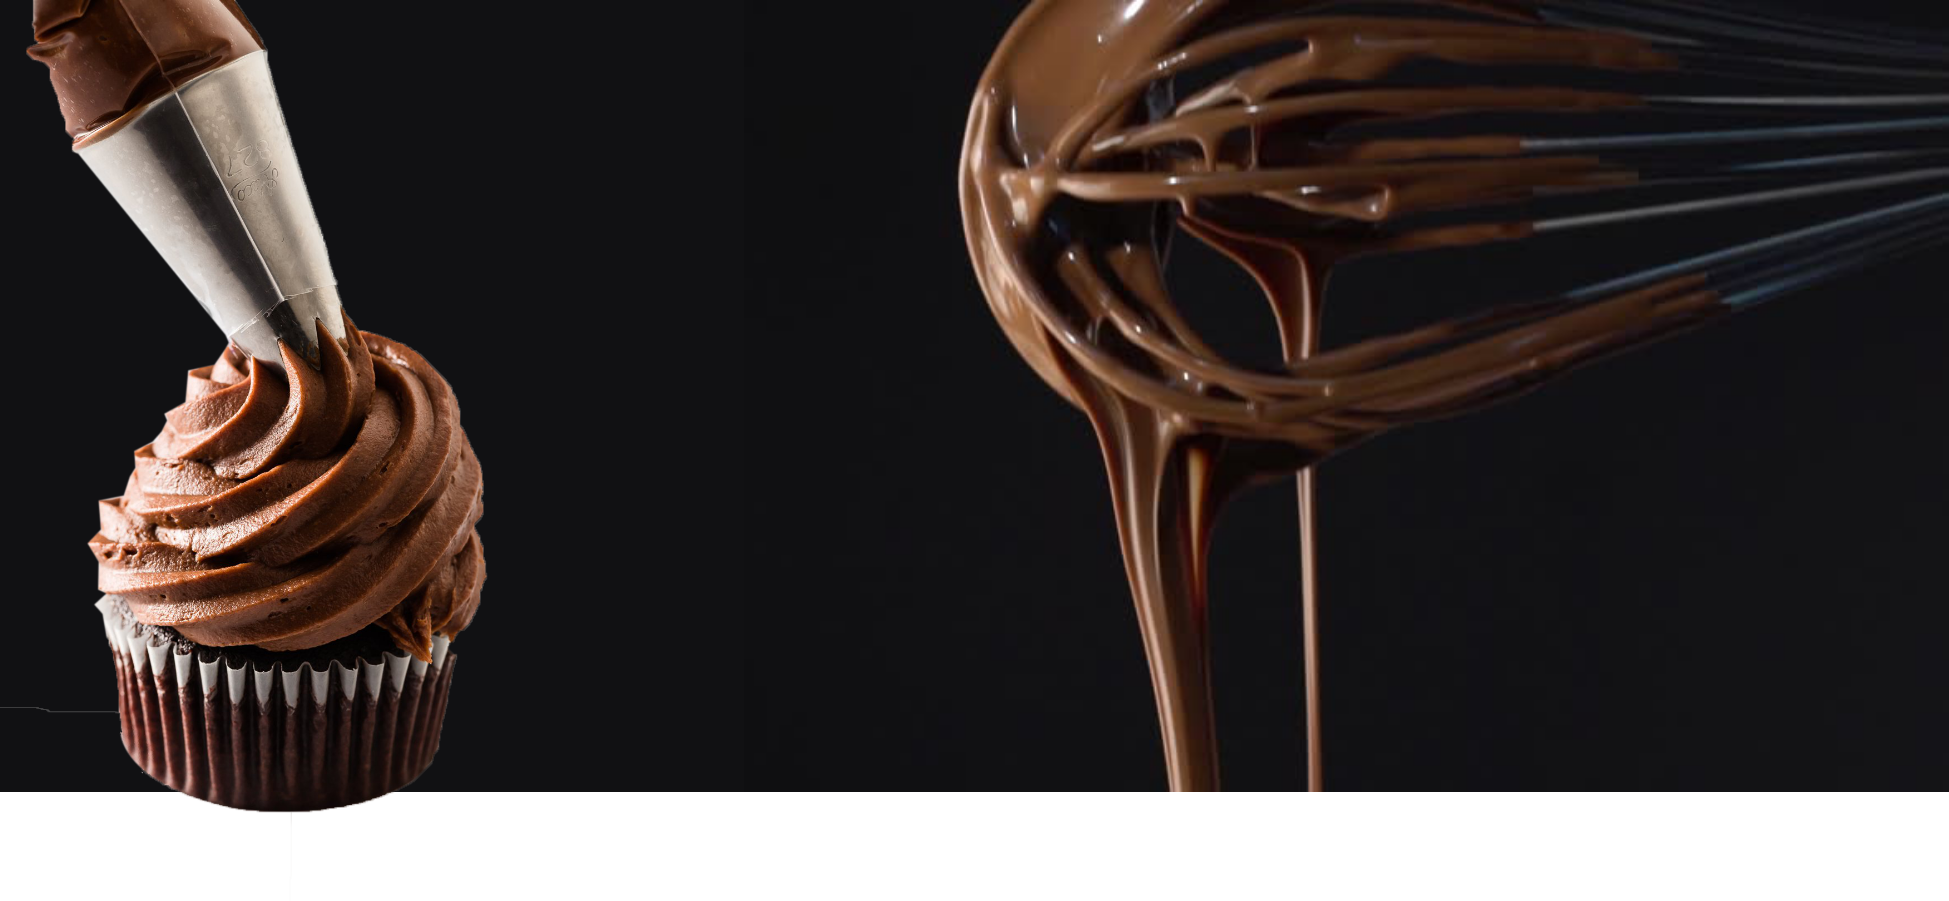
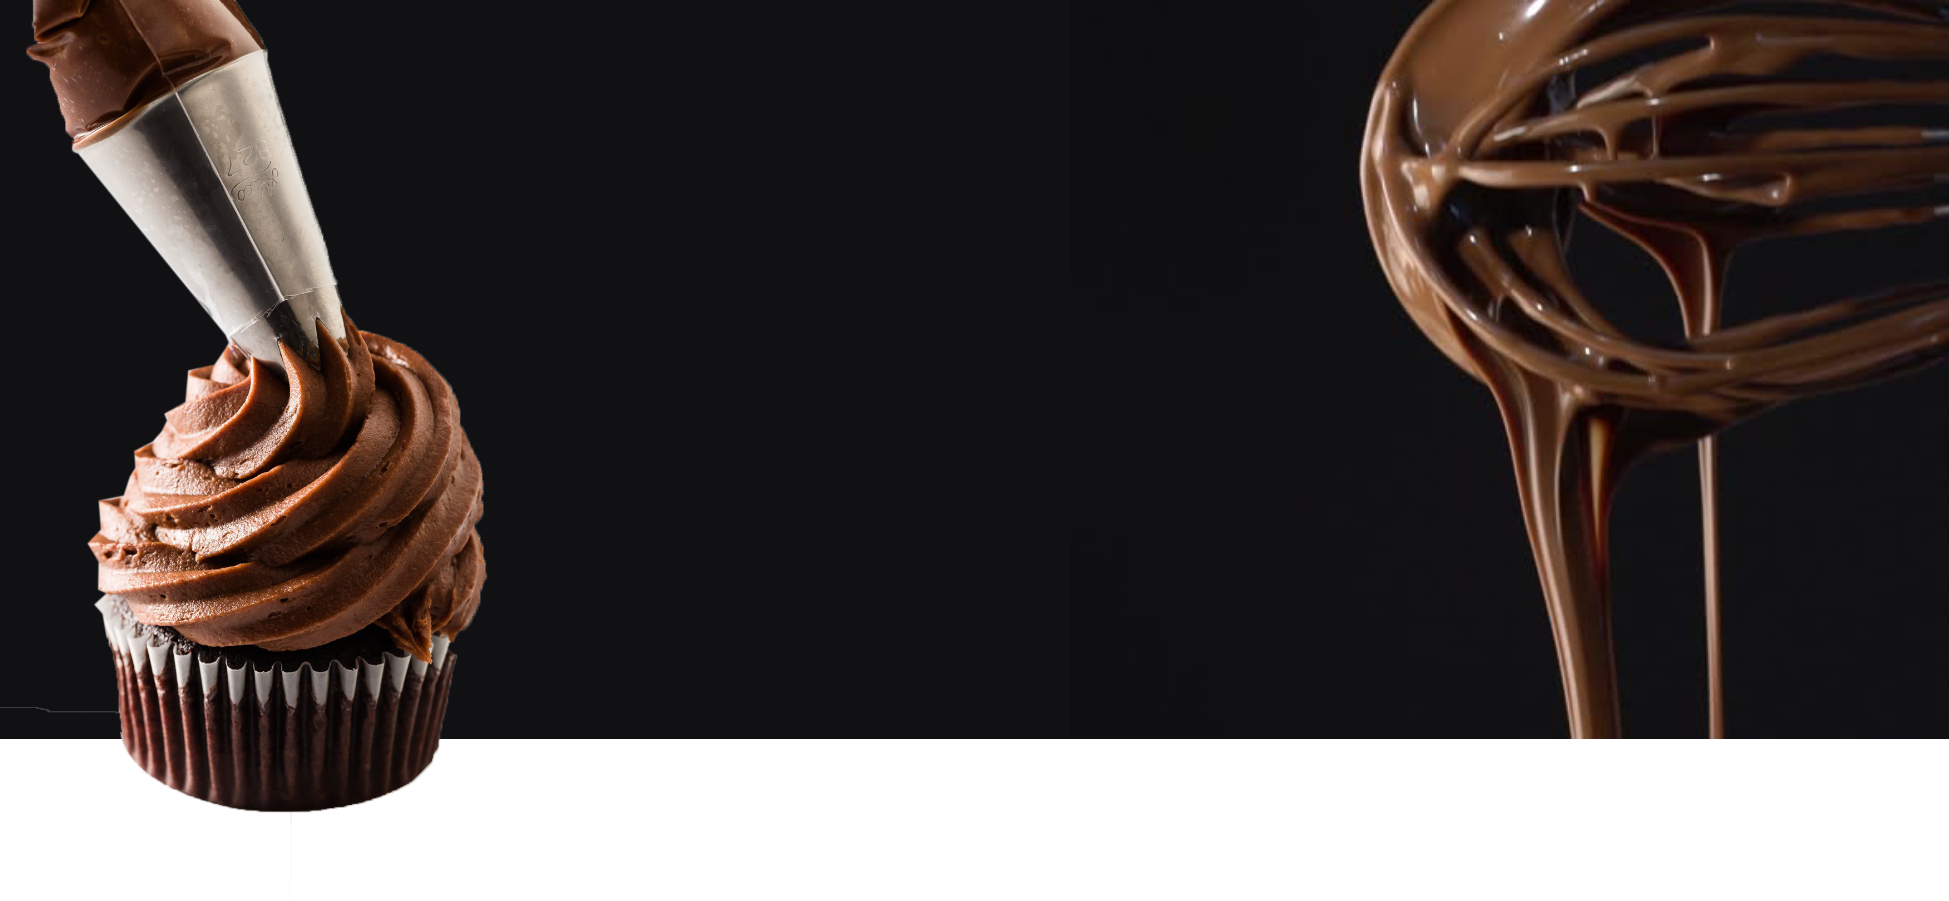
Nav and Hero
First basic structure of navigation and hero image sectioin

Changed region(s): [[0.1847, 0.0, 1.0, 0.9012], [0.0, 0.808, 0.0924, 0.9012]]

diff --git a/index.html b/index.html
@@ -9,22 +9,69 @@
 </head>
 
 <body>
-    <nav>
-        <ul class="nav justify-content-center">
-            <li class="nav-item">
-              <a class="nav-link active" href="#">Active</a>
-            </li>
-            <li class="nav-item">
-              <a class="nav-link" href="#">Link</a>
-            </li>
-            <li class="nav-item">
-              <a class="nav-link" href="#">Link</a>
-            </li>
-            <li class="nav-item">
-              <a class="nav-link disabled" href="#" tabindex="-1" aria-disabled="true">Disabled</a>
-            </li>
-          </ul>
-    </nav>
+
+<!-- Navigation -->
+<nav class="navbar navbar-expand-lg navbar-light bg-light">
+    <a class="navbar-brand" href="#"><img src = "images/logo.png"></a>
+    <button class="navbar-toggler" type="button" data-toggle="collapse" data-target="#navbarNav" aria-controls="navbarNav" aria-expanded="false" aria-label="Toggle navigation">
+      <span class="navbar-toggler-icon"></span>
+    </button>
+    <div class="collapse navbar-collapse" id="navbarNav">
+      <ul class="navbar-nav">
+        <li class="nav-item active">
+            <a class="nav-link" href="#">HOME<span class="sr-only">(current)</span></a>
+          </li>
+        <li class="nav-item">
+          <a class="nav-link" href="#">OUR STORY <span class="sr-only">(current)</span></a>
+        </li>
+        <li class="nav-item">
+          <a class="nav-link" href="#">CUPCAKES</a>
+        </li>
+        <li class="nav-item">
+          <a class="nav-link" href="#">SPECIAL OCCASSIONS</a>
+        </li>
+        <li class="nav-item">
+            <a class="nav-link" href="#">CONTACT</a>
+          </li>
+          <li class="nav-item cart">
+            <a class="nav-link" href="#"><img src = "images/shoppingcart.png"></a>
+          </li>
+      </ul>
+    </div>
+  </nav>
+
+<!-- Jumbotron
+    <div class="jumbotron jumbotron-fluid .container">
+        <div class = "hero">
+            <div class = "herotext">
+            <h1 class="display-4">The Tastiest Treats Around</h1>
+            <p class="lead">Canada’s Favorite haven for gourmet cupcakes. We pride outselves on great tasting treats made from only the finest of ingredients </p>
+            <hr class="my-4">
+            <a class="btn btn-primary btn-lg" href="#" role="button">Order Online</a>
+          </div>
+        </div>
+        <img src = "images/heroimage.png">
+    </div>
+
+-->
+
+<!---->
+<main>
+    <div class="hero">
+        <div class = "herotext">
+      <h1>The Tastiest Treats Around</h1>
+      <p>Canada’s Favorite haven for gourmet cupcakes. We pride outselves on great tasting treats made from only the finest of ingredients.
+          <br>
+        <a class="btn btn-primary btn-lg" href="#" role="button">Order Online</a>
+      </p>
+      <img src="images/heroimage.png">
+       
+    </div>
+</div>
+    </div>
+   
+</main>
+
 
 
 

diff --git a/css/index.css b/css/index.css
@@ -1,0 +1,98 @@
+
+/*Navigation*/
+.navbar-brand img{
+    width: 50px;
+}
+
+.navbar li img{
+    width: 20px;
+}
+
+.navbar li{
+    display: flex;
+    align-items: center;
+    font-family: "Avenir";
+    padding-left: 20px;
+    padding-right:20px;
+}
+
+.nav{
+    display: flex;
+    justify-content: center;
+    align-items: center;
+}
+
+.collapse{
+    display: flex;
+    justify-content: center;
+}
+
+.nav-link{
+    color: black;
+    text-decoration: none;
+    font-size: 18px;
+}
+
+/*Jumbotron*/
+
+main{
+    width: 100%;
+    overflow: hidden;
+    font-family: 'Expletus Sans', cursive;
+  }
+
+  .hero{
+    width: 100%;
+    max-width: 100vw;
+    height: 100vh;
+    text-align: center;
+    margin: 0 auto;
+    position: relative; 
+  }
+
+  .hero h1{
+    font-size: 50px;
+    width: 400px;
+    margin-left:auto;
+    margin-right: auto;
+    position: absolute; 
+    top: 10vh;
+    left: 0;
+    right: 130px;
+    bottom: 0;
+    z-index: 1;
+    color: white;
+    font-family: "Didot";
+    text-align: left;
+  }
+  .hero p{
+    font-size: 16px;
+    width: 430px;
+    margin-left: auto;
+    margin-right: auto;
+    position: absolute; 
+    top: 30vh;
+    left: 0;
+    right: 90px;
+    bottom: 0;
+     z-index: 1;
+    color: white;
+    font-family: "Avenir";
+    text-align: left;
+  }
+
+  .hero img{
+    width: 100vw;
+  }
+
+.hero .btn{
+    margin-left: auto;
+    margin-top: 20px;
+    font-size: 15px;
+    width: 150px;
+    font-family: "Avenir";
+    background-color: pink;
+    border-radius: 0px;
+    color: black;
+}
+
